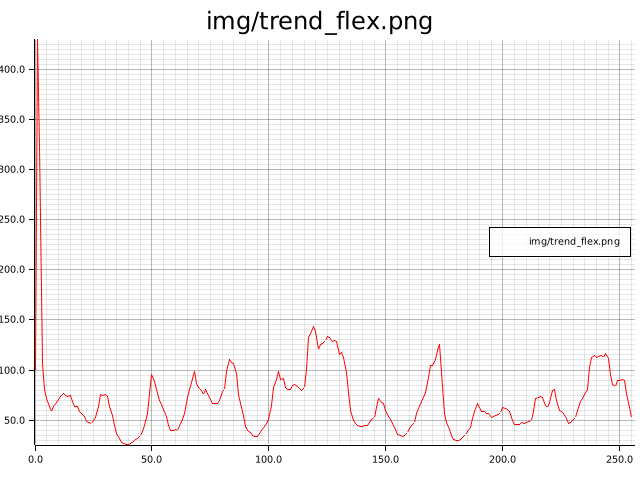
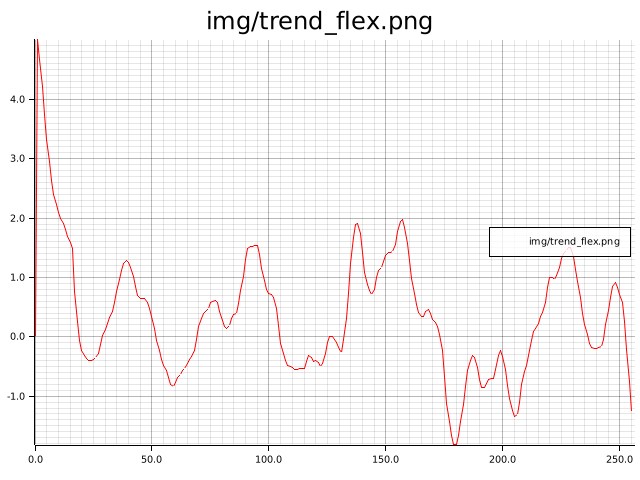
2.5.4: Add `LnReturn`

Changed region(s): [[0.0, 0.0938, 1.0, 0.9375]]

diff --git a/src/ln_return.rs b/src/ln_return.rs
@@ -1,0 +1,57 @@
+use crate::View;
+
+/// Computes the natural logarithm and keep track of the last value.
+/// Usually applied to price data.
+#[derive(Debug, Clone)]
+pub struct LnReturn<V> {
+    view: V,
+    last_val: f64,
+    current_val: f64,
+}
+
+impl<V> LnReturn<V>
+where
+    V: View,
+{
+    /// Create a new instance of `Self` with a chained `View`, whose output will be used to feed the ln return computation.
+    pub fn new(view: V) -> Self {
+        Self {
+            view,
+            last_val: 0.0,
+            current_val: 0.0,
+        }
+    }
+}
+
+impl<V> View for LnReturn<V>
+where
+    V: View,
+{
+    fn update(&mut self, val: f64) {
+        self.view.update(val);
+        let val = self.view.last();
+
+        self.last_val = self.current_val;
+        self.current_val = val;
+    }
+
+    fn last(&self) -> f64 {
+        // TODO: return `None` if `self.last_val == 0`. change api of `View`
+        (self.current_val / self.last_val).ln()
+    }
+}
+
+#[cfg(test)]
+mod tests {
+    use crate::Echo;
+
+    use super::*;
+
+    #[test]
+    fn ln_return() {
+        let mut ln_return = LnReturn::new(Echo::new());
+        ln_return.update(100.0);
+        ln_return.update(110.0);
+        assert_eq!(ln_return.last(), 0.09531017980432493);
+    }
+}

diff --git a/src/lib.rs b/src/lib.rs
@@ -21,6 +21,7 @@ mod ema;
 mod hl_normalizer;
 mod laguerre_filter;
 mod laguerre_rsi;
+mod ln_return;
 mod my_rsi;
 mod noise_elimination_technology;
 mod polarized_fractal_efficiency;
@@ -61,6 +62,7 @@ pub use ema::EMA;
 pub use hl_normalizer::HLNormalizer;
 pub use laguerre_filter::LaguerreFilter;
 pub use laguerre_rsi::LaguerreRSI;
+pub use ln_return::LnReturn;
 pub use my_rsi::MyRSI;
 pub use noise_elimination_technology::NET;
 pub use polarized_fractal_efficiency::PolarizedFractalEfficiency;
